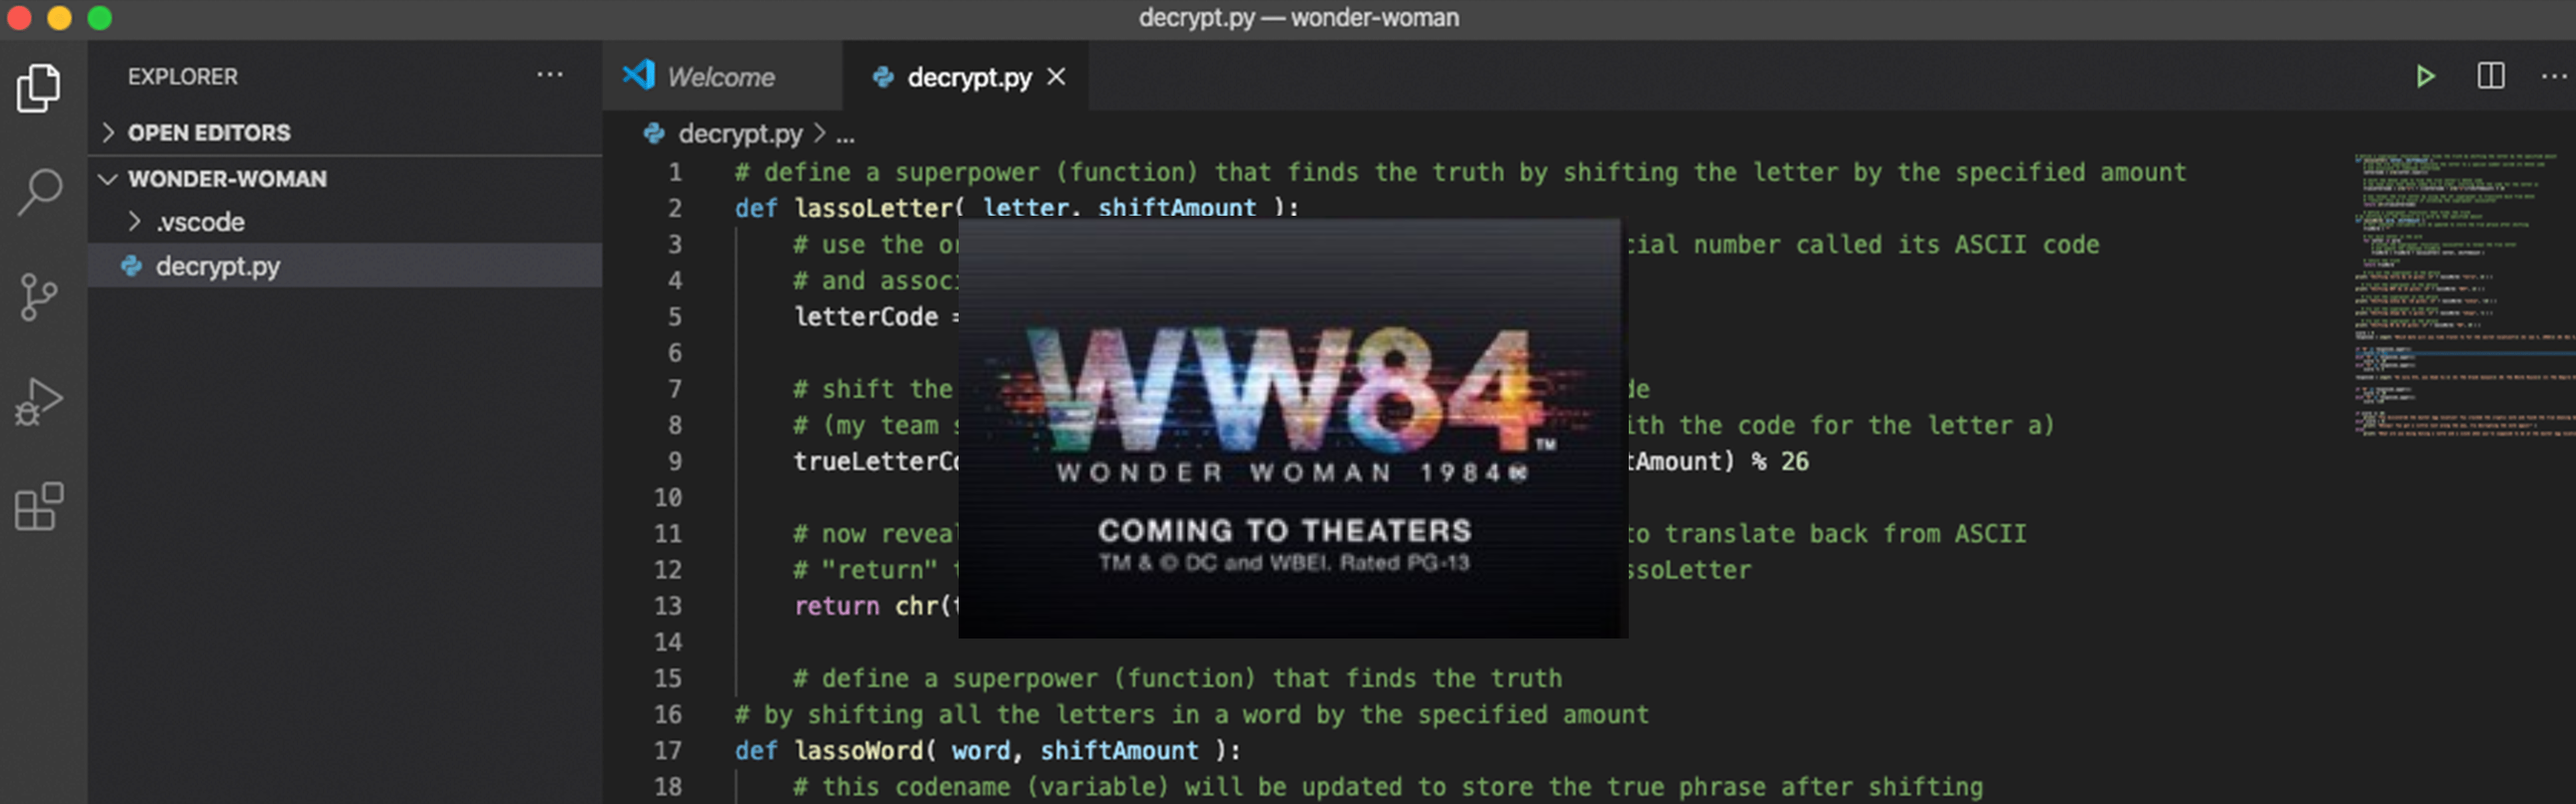
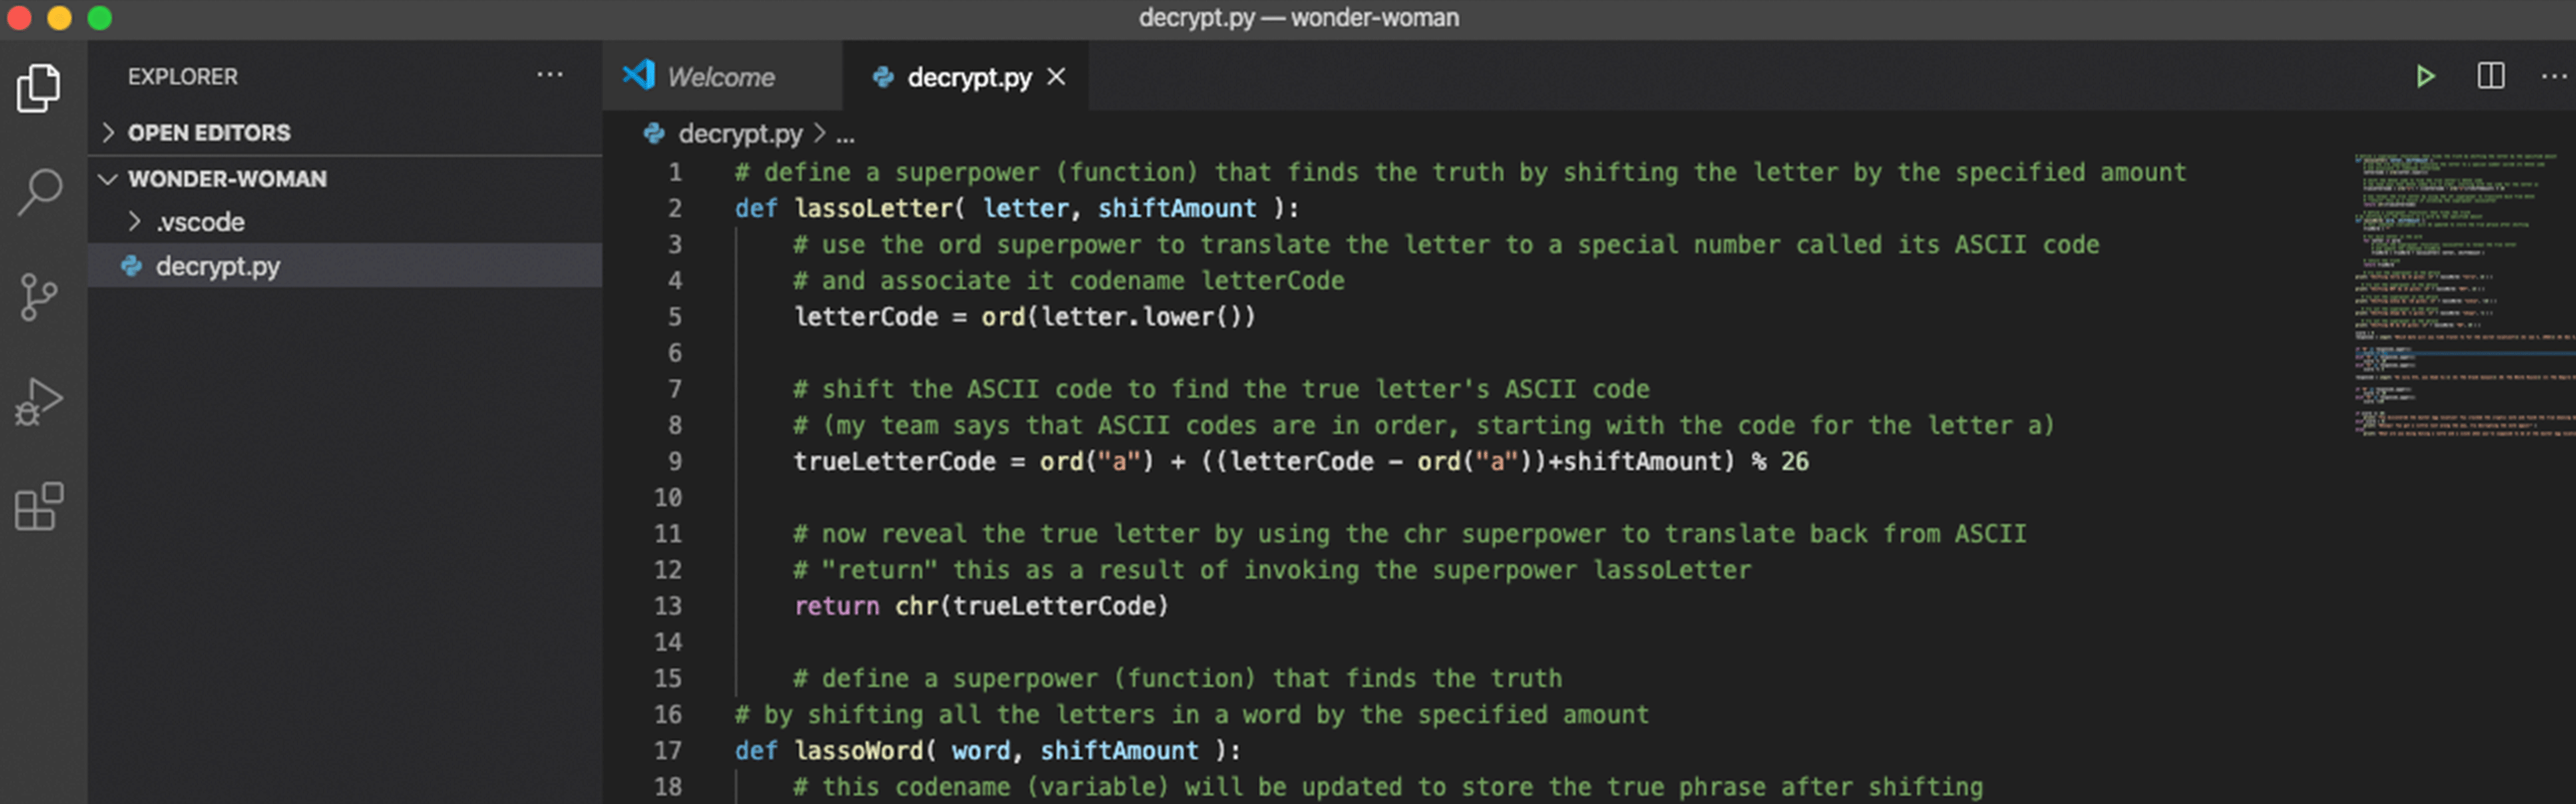
move CTA

Changed region(s): [[0.375, 0.2467, 0.6562, 0.6167], [0.375, 0.6475, 0.6562, 0.8017]]

diff --git a/site/secret_message.md b/site/secret_message.md
@@ -5,6 +5,8 @@ banner_image: "/site/images/ww84_edu_01_github_decode_msg.png"
 
 # **Secret Message inspired by WONDER WOMAN 1984, coming to theaters**
 
+![WONDER WOMAN 1984 coming to theaters](images/ww84_edu_00_github_coming_soon.png)
+
 There’s a secret message encoded with a location and date inspired by WONDER WOMAN 1984. Crack the code using Python programming language and find it in this lesson. For optimal experience, download Visual Studio Code.
 
 For a video walkthrough of this lesson, you can follow along with this:

diff --git a/site/secret_message/cracking.md b/site/secret_message/cracking.md
@@ -5,6 +5,8 @@ banner_image: "/site/images/ww84_edu_01_github_decode_msg.png"
 
 # **Secret Message inspired by WONDER WOMAN 1984, coming to theaters**
 
+![WONDER WOMAN 1984 coming to theaters](../images/ww84_edu_00_github_coming_soon.png)
+
 ---
 
 <img width="576" alt="encrypted note" src="https://user-images.githubusercontent.com/12758612/86677410-6baef980-bfb0-11ea-95e1-4c766bb569f8.png">

diff --git a/site/secret_message/quiz.md b/site/secret_message/quiz.md
@@ -5,6 +5,8 @@ banner_image: "/site/images/ww84_edu_01_github_decode_msg.png"
 
 # **Secret Message inspired by WONDER WOMAN 1984, coming to theaters**
 
+![WONDER WOMAN 1984 coming to theaters](../images/ww84_edu_00_github_coming_soon.png)
+
 ---
 
 <img width="576" alt="encrypted note" src="https://user-images.githubusercontent.com/12758612/86677410-6baef980-bfb0-11ea-95e1-4c766bb569f8.png">

diff --git a/site/secret_message/basics.md b/site/secret_message/basics.md
@@ -5,6 +5,8 @@ banner_image: "/site/images/ww84_edu_01_github_decode_msg.png"
 
 # **Secret Message inspired by WONDER WOMAN 1984, coming to theaters**
 
+![WONDER WOMAN 1984 coming to theaters](../images/ww84_edu_00_github_coming_soon.png)
+
 ---
 
 Let’s start by creating a folder on your computer where you can find easily it. Call it “WW84”—I created mine in my Documents folder.

diff --git a/site/secret_message/setup_win.md b/site/secret_message/setup_win.md
@@ -5,6 +5,8 @@ banner_image: "/site/images/ww84_edu_01_github_decode_msg.png"
 
 # **Secret Message inspired by WONDER WOMAN 1984, coming to theaters**
 
+![WONDER WOMAN 1984 coming to theaters](../images/ww84_edu_00_github_coming_soon.png)
+
 ---
 
 ## Setting up Visual Studio Code and Python for Windows

diff --git a/site/secret_message/setup_linux.md b/site/secret_message/setup_linux.md
@@ -5,6 +5,8 @@ banner_image: "/site/images/ww84_edu_01_github_decode_msg.png"
 
 # **Secret Message inspired by WONDER WOMAN 1984, coming to theaters**
 
+![WONDER WOMAN 1984 coming to theaters](../images/ww84_edu_00_github_coming_soon.png)
+
 ---
 
 ## Setting up Visual Studio Code and Python for Linux

diff --git a/site/secret_message/setup_mac.md b/site/secret_message/setup_mac.md
@@ -5,6 +5,8 @@ banner_image: "/site/images/ww84_edu_01_github_decode_msg.png"
 
 # **Secret Message inspired by WONDER WOMAN 1984, coming to theaters**
 
+![WONDER WOMAN 1984 coming to theaters](../images/ww84_edu_00_github_coming_soon.png)
+
 ---
 
 ## Setting up Visual Studio Code and Python for Mac
